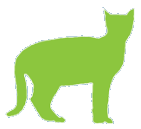
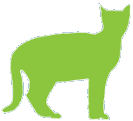
resize imgs for the best pet template update best-pet template.

Changed region(s): [[0.0, 0.2479, 0.7519, 0.9917], [0.4211, 0.0248, 0.9925, 0.9917], [0.3609, 0.6942, 0.4211, 0.7686]]

diff --git a/petstore/styles/style.css b/petstore/styles/style.css
@@ -344,6 +344,53 @@ div.el-inline {
 
 /* end customize components styles*/
 
+ /*best-pet */
+
+#cat-dog-radio {
+    background-color: #6E3667 ;
+    padding: 25px;
+}
+#holder {
+    width: 200px;
+    height: 130px;
+}
+
+label > input{ /* HIDE RADIO */
+  visibility: hidden; /* Makes input not-clickable */
+  position: absolute; /* Remove input from document flow */
+}
+#dog-lbl > input + div{ /* IMAGE STYLES */
+  cursor:pointer;
+  /*border:2px solid transparent;*/
+   background: url('../images/best-pet-imgs/dog.png');
+   background-repeat: no-repeat;
+  
+}
+#dog-lbl > input:checked + div{ /* (RADIO CHECKED) IMAGE STYLES */
+   background: url('../images/best-pet-imgs/dog-selected.png');
+   background-repeat: no-repeat;
+}
+
+
+#cat-lbl > input + div{ /* IMAGE STYLES */
+  cursor:pointer;
+  /*border:2px solid transparent;*/
+   background: url('../images/best-pet-imgs/cat.png');
+   background-repeat: no-repeat;
+  
+}
+#cat-lbl > input:checked + div{ /* (RADIO CHECKED) IMAGE STYLES */
+   background: url('../images/best-pet-imgs/cat-selected.png');
+   background-repeat: no-repeat;
+}
+/*label > input:checked > div #dog-img {
+    visibility: hidden;
+}*/
+
+
+
+ /*end best-pet  */
+
 
 /*footer style*/
 

diff --git a/petstore/scripts/controllers/best-pet-controller.js b/petstore/scripts/controllers/best-pet-controller.js
@@ -8,7 +8,6 @@ class BestPetController {
         getTemplate('best-pet')
             .then((template) => {
                 $('#main-content-container').html(template);
-                this.initApp();
             });
     }
 }
